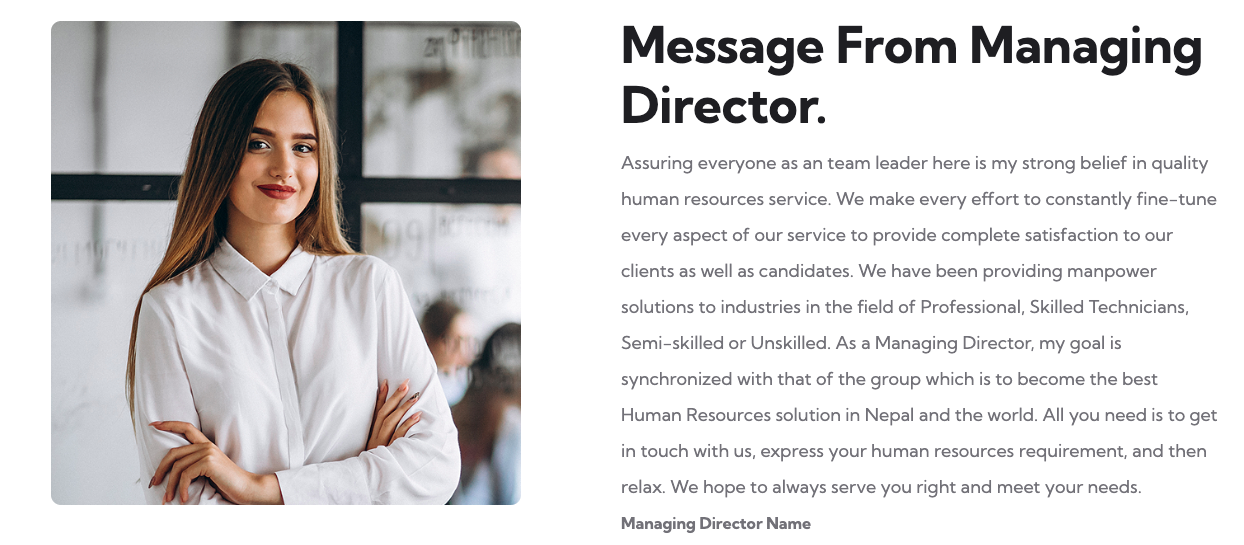
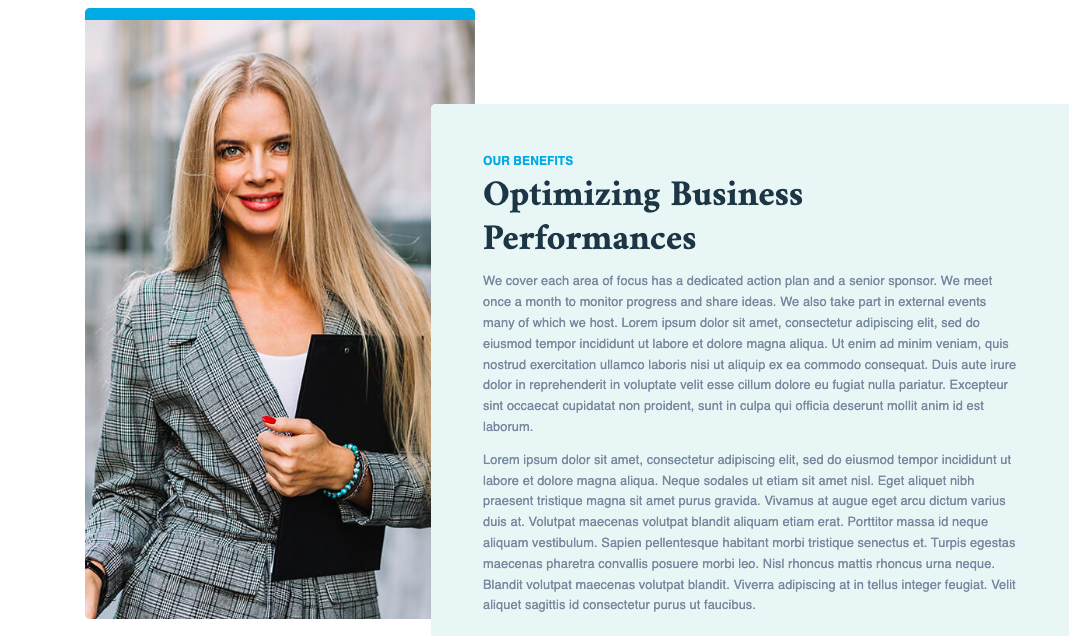
directors message in frontend/backend

diff --git a/resources/views/frontend/pages/dynamic_page.blade.php b/resources/views/frontend/pages/dynamic_page.blade.php
@@ -140,7 +140,6 @@
                       </section>
                 @endif
 
-
                 @if($value == "call_to_action_1")
                     <!--cta-section-->
                         <section class="ttm-row cta-section bg-img9 ttm-bgcolor-darkgrey ttm-bg ttm-bgimage-yes clearfix">
@@ -430,41 +429,53 @@
                 @if($value == "directors_message")
                     <!--- Basic Section--->
 
-                    <section class="about-me" style=" padding-top: 100px; padding-bottom: 100px;">
-                        <div class="container">
-                            <div class="row">
-                                <div class="col-md-12 col-lg-5" style="margin: auto">
-
-                                    <div class="about-me__image get-in-touch__img wow fadeInLeft animated" data-wow-duration="1500ms" style="visibility: visible; margin-right: 0; animation-duration: 1500ms; animation-name: fadeInLeft;">
-                                        <img src="{{asset('/images/section_elements/basic_section/'.@$directors_message->image) }}" alt="">
-                                        <div class="get-in-touch__img-shapes">
-                                            <div class="get-in-touch__img-shape-1"></div>
-                                            <div class="get-in-touch__img-shape-2"></div>
+                        <!-- broken-section -->
+                        <section class="ttm-row broken-section bg-layer-equal-height margin_top160 res-991-margin_top0 clearfix">
+                            <div class="container">
+                                <div class="row no-gutters">
+                                    <div class="col-lg-5 col-md-6 col-sm-6 m-lg-0 m-auto">
+                                        <!-- col-bg-img-two -->
+                                        <div class="col-bg-img-two ttm-bg ttm-col-bgimage-yes border-rad_6 overflow-hidden mt_120 res-991-margin_top15">
+                                            <div class="ttm-col-wrapper-bg-layer ttm-bg-layer" style="background-image:  url({{ asset('/images/section_elements/basic_section/'.$directors_message->image) }})">
+                                                <div class="padding_top15 ttm-bgcolor-skincolor"></div>
+                                                <div class="ttm-col-wrapper-bg-layer-inner"></div>
+                                            </div>
+                                        </div>
+                                        <!-- col-bg-img-one end -->
+                                        <div class="d-inline-block border-rad_6 overflow-hidden m-auto text-center res-991-margin_left15 res-991-margin_right15">
+                                            <div class="res-991-padding_top15 mb_15 position-relative ttm-bgcolor-skincolor"></div>
+                                            <img src="{{asset('/images/section_elements/basic_section/'.@$directors_message->image) }}" class="ttm-equal-height-image img-fluid" alt="col-bgimage-1">
                                         </div>
                                     </div>
-        {{--                            <div class="about-me__image">--}}
-        {{--                                <img src="{{asset('/images/section_elements/basic_section/'.@$directors_message->image) }}" alt="">--}}
-        {{--                            </div><!-- /.about-me__image -->--}}
-                                </div><!-- /.col-md-12 -->
-                                <div class="col-md-12 col-lg-7">
-                                    <div class="about-me__content">
-                                        <h3 class="about-me__title">
-                                        <span class="text-red"><?php
-                                            $split = explode(" ", ucwords(@$directors_message->heading));?> {{preg_replace('/\W\w+\s*(\W*)$/', '$1', ucwords(@$directors_message->heading))."\n"}}</span>
-                                            <span class="text-last">{{$split[count($split)-1]}}</span>
-
-
-
-                                        </h3>
-                                        <div class="about-me__summery justified" style="margin-top: 10px;">
-                                            {!! @$directors_message->description !!}
+                                    <div class="col-lg-7 col-md-12 col-sm-12">
+                                        <div class="ttm-bg ttm-col-bgimage-yes ttm-right-span ttm-bgcolor-grey border-rad_6 spacing-8 ">
+                                            <div class="ttm-col-wrapper-bg-layer ttm-bg-layer border-rad_6 overflow-hidden"></div>
+                                            <div class="layer-content">
+                                                <!-- section title -->
+                                                <div class="section-title">
+                                                    <div class="title-header">
+                                                        @if(@$directors_message->subheading !== null)
+                                                            <h3>{{@$directors_message->subheading}}</h3>
+                                                        @endif
+                                                        <h2 class="title">{{@$directors_message->heading}}</h2>
+                                                    </div>
+                                                    <div class="title-desc">
+                                                        {!! @$directors_message->description !!}
+                                                    </div>
+                                                </div>
+                                                <!-- section title end -->
+                                                <div class="d-inline-block margin_top15">
+                                                    <img class="img-fluid" src="<?php if(!empty(@$directors_message->extra_image)){ echo '/images/section_elements/basic_section/'.@$directors_message->extra_image; } ?>" alt="single_02" style="height: 70px; width: auto">
+                                                    <h4 class="pt-2">{{@$directors_message->extra_heading}}</h4>
+                                                </div>
+                                            </div>
                                         </div>
-                                        <p class="get-in-touch__locatins-count-text">{{$directors_message->subheading}}</p>
-                                    </div><!-- /.about-me__content -->
-                                </div><!-- /.col-md-12 -->
-                            </div><!-- /.row -->
-                        </div><!-- /.container -->
-                    </section>
+                                        <!-- col-bg-img-two end -->
+                                    </div>
+                                </div>
+                            </div>
+                        </section>
+                        <!-- broken-section end -->
                 @endif
 
                 @if($value == "flash_cards")

diff --git a/resources/views/backend/pages/section_elements/create.blade.php b/resources/views/backend/pages/section_elements/create.blade.php
@@ -283,17 +283,23 @@
                                                         </div>
 
                                                         <div class="form-group mb-3">
-                                                            <label>Message Signature</label>
+                                                            <label>Subheading</label>
                                                             <input type="text" class="form-control" maxlength="35" name="subheading" value="{{@$directors_message->subheading}}">
+                                                            <div class="invalid-feedback">
+                                                                Please enter the basic section Sub heading.
+                                                            </div>
+                                                        </div>
+                                                        <div class="form-group mb-3">
+                                                            <label>Name of Director</label>
+                                                            <input type="text" class="form-control" maxlength="45" name="extra_heading" value="{{@$directors_message->extra_heading}}">
                                                             <figcaption class="figure-caption">*For example: Name of Director</figcaption>
-
                                                             <div class="invalid-feedback">
                                                                 Please enter the basic section Sub heading.
                                                             </div>
                                                         </div>
                                                         <div class="form-group mb-3">
                                                             <label>Message <span class="text-muted text-danger">*</span></label>
-                                                            <textarea class="form-control" rows="6" name="description" maxlength="800" id="director_editor" required>{!! @$directors_message->description !!}</textarea>
+                                                            <textarea class="form-control" rows="6" name="description" maxlength="2000" id="director_editor" required>{!! @$directors_message->description !!}</textarea>
                                                             <div class="invalid-feedback">
                                                                 Please write the message.
                                                             </div>
@@ -309,14 +315,29 @@
                                                         </h4>
                                                     </div>
                                                     <div class="card-body">
+                                                        <label>Directors signature <span class="text-muted text-danger">*</span></label>
 
+                                                        <div style="margin: auto; width: 50%;">
+                                                            <img  id="current-director-sign-img"  src="<?php if(!empty(@$directors_message->extra_image)){ echo '/images/section_elements/basic_section/'.@$directors_message->extra_image; } else{  echo '/images/default-image.jpg'; } ?>" class="position-relative img-fluid img-thumbnail blog-feature-image" >
+                                                            <input  type="file" accept="image/png, image/jpeg" hidden
+                                                                    id="director-sign-image" onchange="loadbasicFile('director-sign-image','current-director-sign-img',event)" name="extra_image" {{(@$directors_message->id !== null) ? "":"required" }}
+                                                                    class="profile-foreground-img-file-input" >
+
+                                                            <figcaption class="figure-caption">Image for current section.</figcaption>
+                                                            <div class="invalid-feedback" >
+                                                                Please select a image.
+                                                            </div>
+                                                            <label for="director-sign-image" class="profile-photo-edit btn btn-light feature-image-button">
+                                                                <i class="ri-image-edit-line align-bottom me-1"></i> Add Image
+                                                            </label>
+                                                        </div>
                                                         <div>
                                                             <img  id="current-director-img"  src="<?php if(!empty(@$directors_message->image)){ echo '/images/section_elements/basic_section/'.@$directors_message->image; } else{  echo '/images/default-image.jpg'; } ?>" class="position-relative img-fluid img-thumbnail blog-feature-image" >
                                                             <input  type="file" accept="image/png, image/jpeg" hidden
                                                                     id="director-image" onchange="loadbasicFile('director-image','current-director-img',event)" name="image" {{(@$directors_message->id !== null) ? "":"required" }}
                                                                     class="profile-foreground-img-file-input" >
 
-                                                            <figcaption class="figure-caption">Image for current section. (SIZE: 570 x 590px)</figcaption>
+                                                            <figcaption class="figure-caption">Image for current section. (SIZE: 595 x 785px)</figcaption>
                                                             <div class="invalid-feedback" >
                                                                 Please select a image.
                                                             </div>
@@ -1259,7 +1280,6 @@
 
                                     @endif
 
-
                                 @if($value == 'slider_list')
                                      @if(sizeof($slider_list_elements) !== 0)
                                          {!! Form::open(['route' => 'section-elements.tablistUpdate','method'=>'post','class'=>'needs-validation','id'=>'slider-list-form','novalidate'=>'','enctype'=>'multipart/form-data']) !!}
@@ -1376,7 +1396,7 @@
 
                                  @endif
 
-                                 @if($value == 'gallery_section')
+                                @if($value == 'gallery_section')
                                      <div class="row">
                                          <div class="col-md-12">
                                              <div class="card ctm-border-radius shadow-sm flex-fill">

diff --git a/app/Http/Controllers/SectionElementController.php b/app/Http/Controllers/SectionElementController.php
@@ -193,6 +193,7 @@ class SectionElementController extends Controller
             $data=[
                 'heading'                => $request->input('heading'),
                 'page_section_id'        => $section_id,
+                'extra_heading'             => $request->input('extra_heading'),
                 'subheading'             => $request->input('subheading'),
                 'description'            => $request->input('description'),
                 'created_by'             => Auth::user()->id,
@@ -201,9 +202,18 @@ class SectionElementController extends Controller
                 $image        = $request->file('image');
                 $name         = uniqid().'_director_'.$image->getClientOriginalName();
                 $path         = base_path().'/public/images/section_elements/basic_section/';
-                $moved        = Image::make($image->getRealPath())->fit(570, 590)->orientate()->save($path.$name);
+                $moved        = Image::make($image->getRealPath())->fit(595, 785)->orientate()->save($path.$name);
                 if ($moved){
                     $data['image']= $name;
+                }
+            }
+            if(!empty($request->file('extra_image'))){
+                $image        = $request->file('extra_image');
+                $name         = uniqid().'_director_sign_'.$image->getClientOriginalName();
+                $path         = base_path().'/public/images/section_elements/basic_section/';
+                $moved        = Image::make($image->getRealPath())->orientate()->save($path.$name);
+                if ($moved){
+                    $data['extra_image']= $name;
                 }
             }
             $status = SectionElement::create($data);
@@ -499,16 +509,29 @@ class SectionElementController extends Controller
             $basic->description         = $request->input('description');
             $basic->updated_by          = Auth::user()->id;
             $oldimage                   = $basic->image;
+            $signimage                   = $basic->extra_image;
 
             if (!empty($request->file('image'))){
                 $image                = $request->file('image');
                 $name                 = uniqid().'_director_'.$image->getClientOriginalName();
                 $path                 = base_path().'/public/images/section_elements/basic_section/';
-                $moved                = Image::make($image->getRealPath())->fit(570, 590)->orientate()->save($path.$name);
+                $moved                = Image::make($image->getRealPath())->fit(595, 785)->orientate()->save($path.$name);
                 if ($moved){
                     $basic->image = $name;
                     if (!empty($oldimage) && file_exists(public_path().'/images/section_elements/basic_section/'.$oldimage)){
                         @unlink(public_path().'/images/section_elements/basic_section/'.$oldimage);
+                    }
+                }
+            }
+            if(!empty($request->file('extra_image'))){
+                $image        = $request->file('extra_image');
+                $name         = uniqid().'_director_sign_'.$image->getClientOriginalName();
+                $path         = base_path().'/public/images/section_elements/basic_section/';
+                $moved        = Image::make($image->getRealPath())->orientate()->save($path.$name);
+                if ($moved){
+                    $basic->extra_image = $name;
+                    if (!empty($signimage) && file_exists(public_path().'/images/section_elements/basic_section/'.$signimage)){
+                        @unlink(public_path().'/images/section_elements/basic_section/'.$signimage);
                     }
                 }
             }
